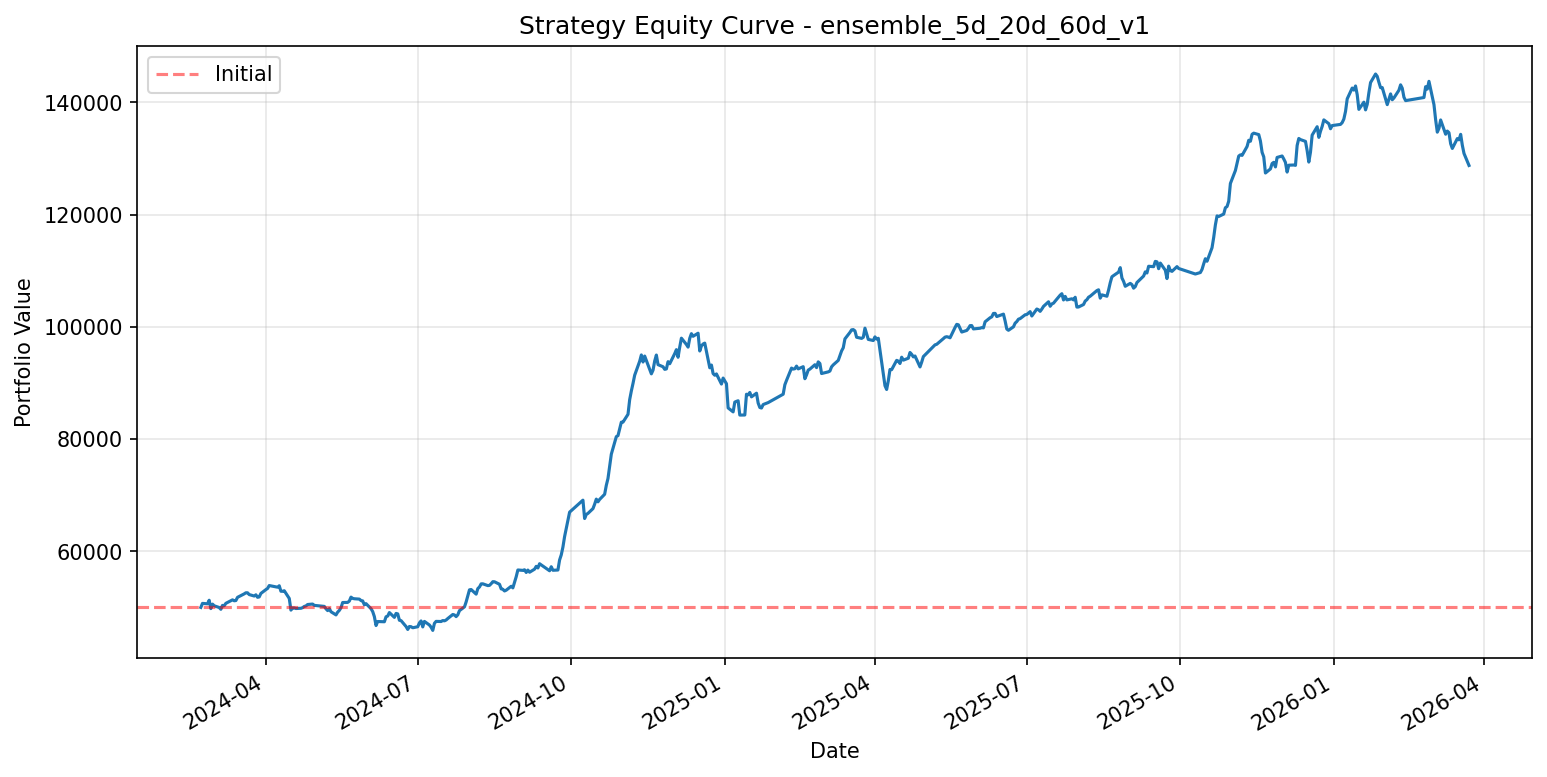
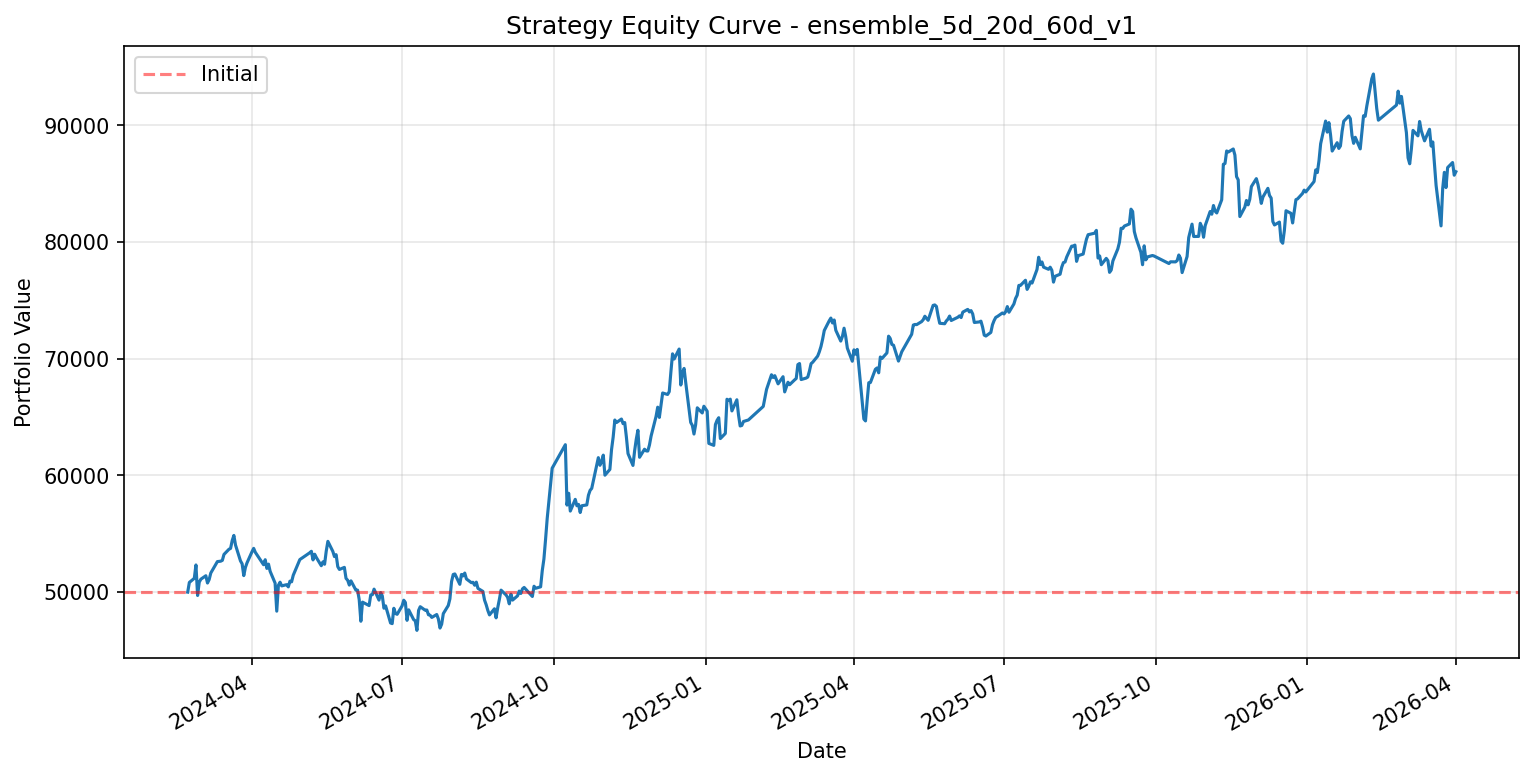
在backtrader里面增加输出 输出由generate signals产生的rebalance signal，方便调仓。并修改总readme 添加融合模型的表现

diff --git a/README.md b/README.md
@@ -54,6 +54,15 @@
 
 ![IC分析](./assets/performance/ensemble_5d_20d_60d_v1/ic_analysis_smooth.png)
 
+### 策略回测表现对比
+
+**融合模型 (5d+20d+60d) vs 单模型 (20d)**
+
+| 模型 | 净值曲线 |
+|:---|:---|
+| **融合模型** | ![融合模型净值](./assets/performance/ensemble_5d_20d_60d_v1/equity_curve.png) |
+| **20d单模型** | ![20d单模型净值](./assets/performance/exp_20d_001_v1_equity_curve.png) |
+
 **关键指标**：
 
 | 指标 | 数值 | 评价 |
@@ -66,23 +75,23 @@
 ### 策略回测表现 (Backtrader)
 
 **回测设置**：
-- 回测区间：2024-03 至 2026-03（约1.5年）
+- 回测区间：2024-02-22 至 2026-04-01（约2.1年）
 - 初始资金：50,000元
 - 选股数量：20只
 - 调仓频率：每月第一个交易日
 - 交易成本：手续费0.2% + 滑点0.1%
 - 风控措施：涨停过滤（开盘涨幅>=9.9%不买入）+ 20%止损
 
-![净值曲线](./assets/performance/ensemble_5d_20d_60d_v1/equity_curve.png)
-
-**绩效指标**：
+**绩效指标**（融合模型）：
 
 | 指标 | 数值 | 说明 |
 |:---|:---|:---|
-| 累计收益 | **156%** | 期末净值约12.8万 |
-| 年化收益 | **~85%** | 复利计算 |
-| 最大回撤 | <20% | 风控有效 |
-| 胜率 | ~52% | 盈亏比优势 |
+| 累计收益 | **72.07%** | 期末净值约8.6万 |
+| 年化收益 | **30.69%** | 复利计算 |
+| 最大回撤 | **14.83%** | 风控有效 |
+| 胜率 | **54.9%** | 盈亏比优势 |
+| 夏普比率 | **1.41** | 风险调整后收益优秀 |
+| 盈亏比 | **1.71** | 盈利能力强 |
 
 ### 融合模型的提升
 
